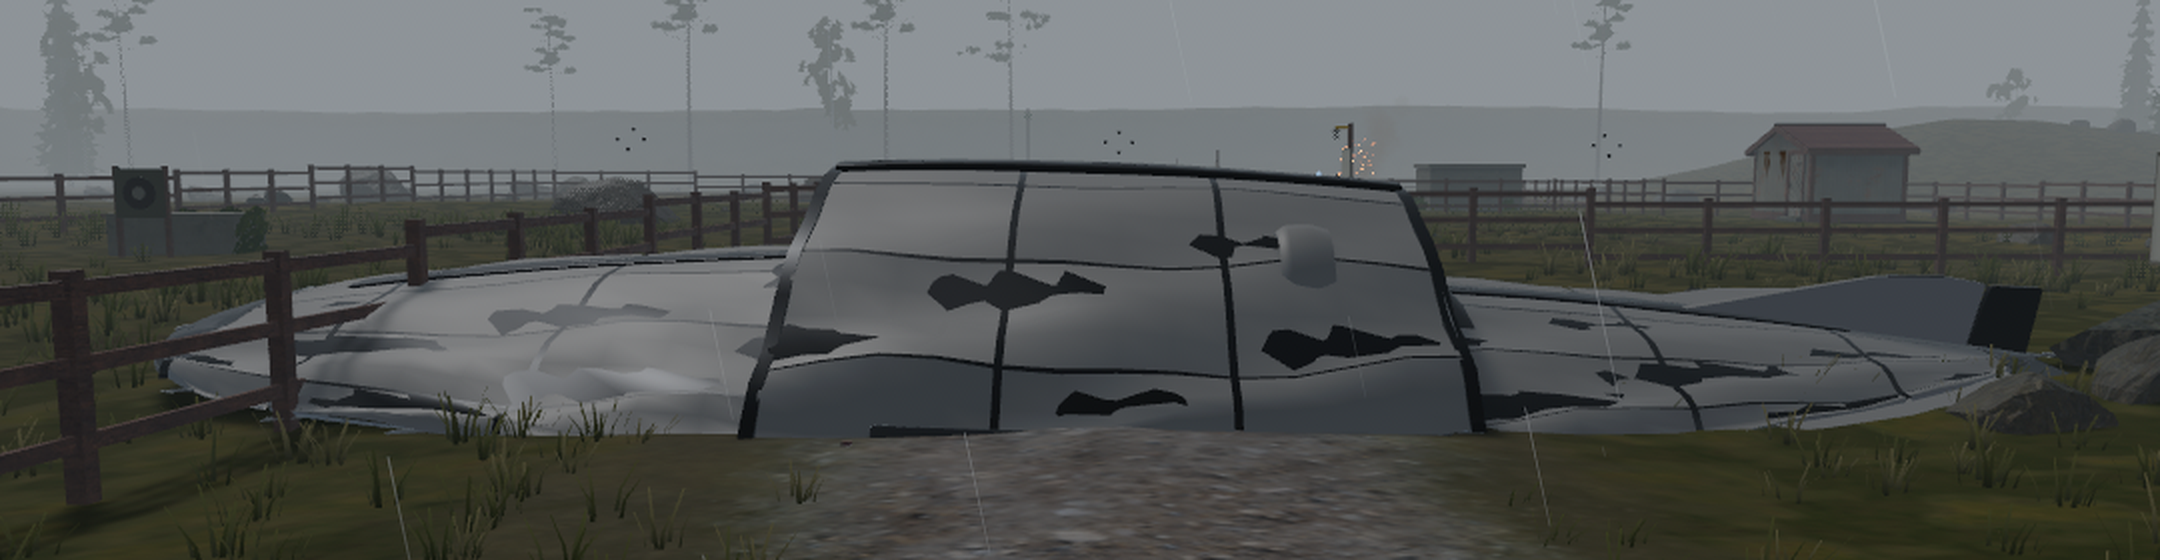
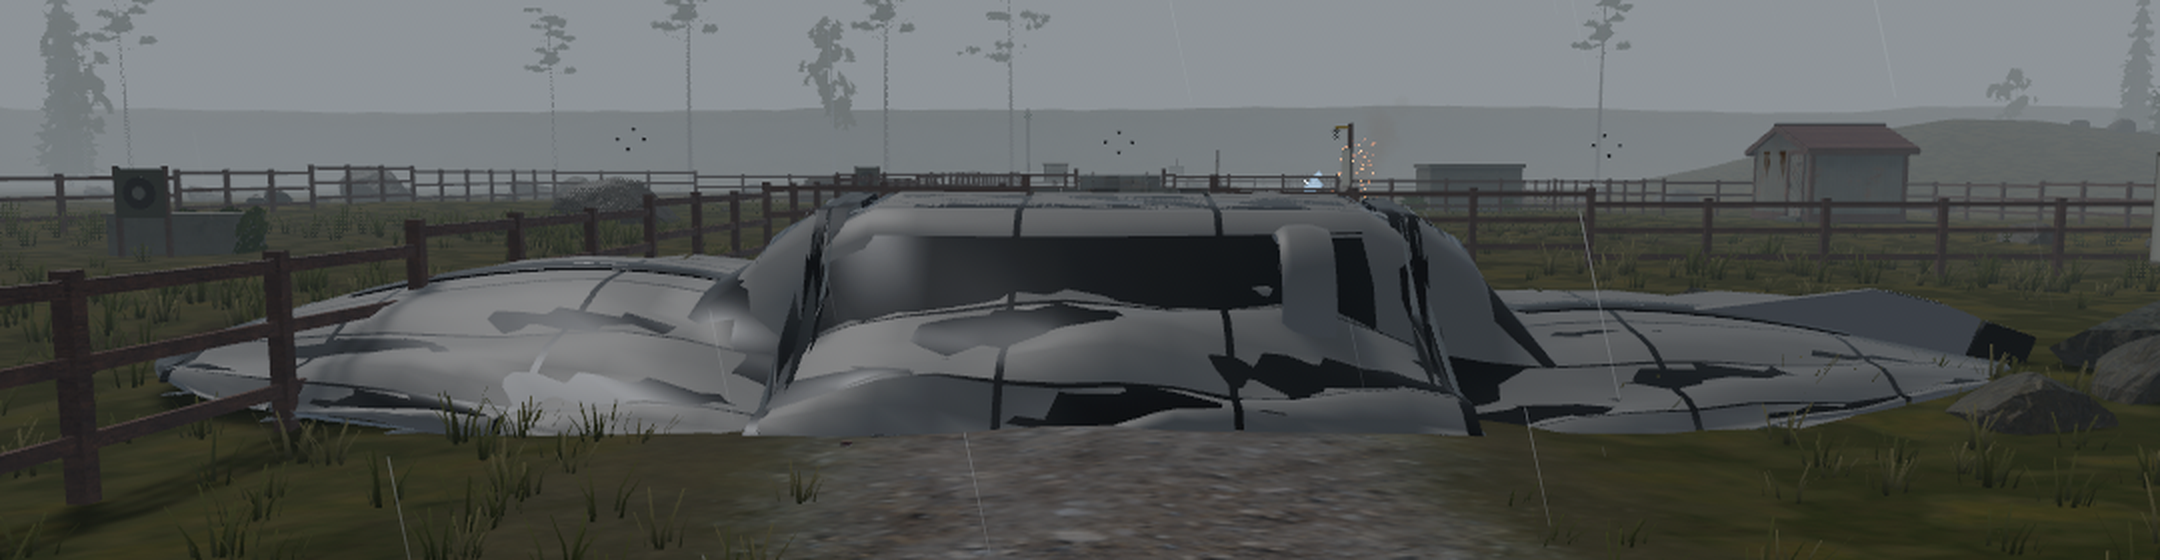
Docs: the downed dirigible's still, its full cell a low pillow over the gondola
Claude-Session: https://claude.ai/code/session_01Ka1TLmCaYKYxaoCkbURtaJ

diff --git a/docs/shots/robot-bodies/README.md b/docs/shots/robot-bodies/README.md
@@ -346,7 +346,7 @@ The user on the #99 pictures: "Lights on fog look much prettier than that! Not l
 
 ## A dirigible come down holed (`dirigible_look`)
 
-A holed cell sags in the air; down on the ground the cells lie draped over the gondola and the grass, pressed flat below, spread wide and creased along their gores, the holed ones flatter than the one still holding gas (a mound). Its eye is tucked under the gondola's nose, clear of the ground (or Heavy's salvage eye is seated there in its place). `slack_point` / `down_point` say where a point of a taut cell has gone, for anything seated on one.
+A holed cell sags in the air; down on the ground the cells lie draped over the gondola and the grass, pressed flat below, spread wide and creased along their gores, the holed ones flatter; even the one still holding gas slumps to a low pillow (under half a taut cell's height) over a rounded hump at the gondola, its ends down on the grass. Its eye is tucked under the gondola's nose, clear of the ground (or Heavy's salvage eye is seated there in its place). `slack_point` / `down_point` say where a point of a taut cell has gone, for anything seated on one.
 
 | Picture | What it shows |
 |---|---|
